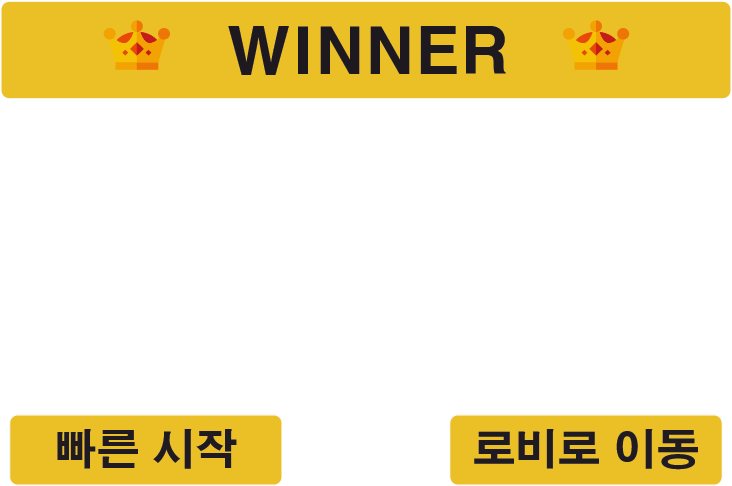
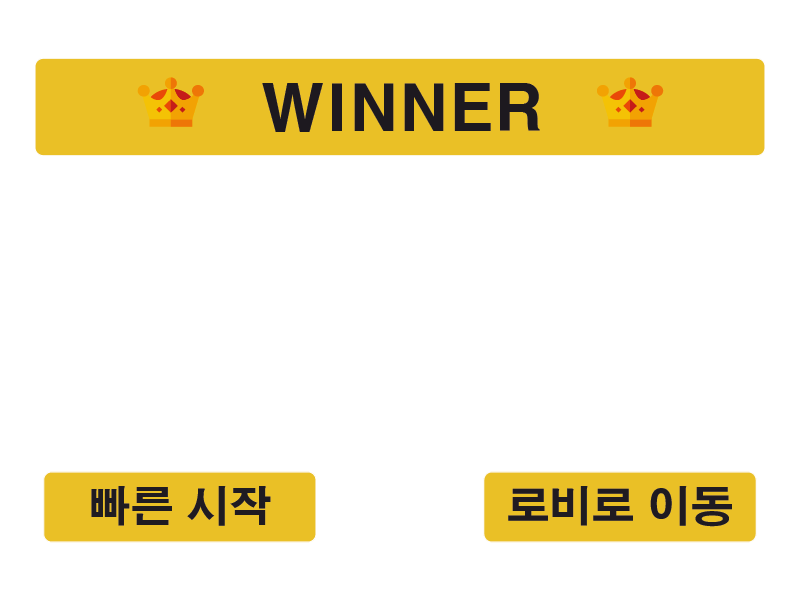
Add end_state and gameover, restart func

diff --git a/play_state.py b/play_state.py
@@ -2,6 +2,7 @@ import game_framework
 import lobby_state
 import game_world
 import ready_state
+import end_state
 
 from player import *
 from stone import Stone
@@ -11,7 +12,11 @@ from timer import Timer
 from ai import AI
 from map import *
 
-gamestart = None
+game_start = None
+game_over = None
+game_restart = None
+lobby_start = None
+
 player = None
 ai = []
 raceTimer = None
@@ -27,8 +32,12 @@ stones = []
 observer = None
 
 def enter():
-    global player, bg, ai, gamestart, raceTimer, startLine, finishLine, transformLine, map, observer, pin, stones, mapX
-    gamestart = False
+    global player, bg, ai, game_start, raceTimer, startLine, finishLine, transformLine, map, observer, pin, stones, mapX, game_over, game_restart, lobby_start
+
+    game_start = False
+    game_over = False
+    game_restart = False
+    lobby_start = False
 
     observer = [[],[],[],[],[]]
     map = Map()
@@ -42,8 +51,8 @@ def enter():
 
     bg = Background()
     startLine = StartLine()
-    transformLine = [TransformLine(x=1500*i) for i in range(1,5+1)]
-    #transformLine = TransformLine()
+    #transformLine = [TransformLine(x=1500*i) for i in range(1,5+1)]
+    transformLine = TransformLine()
     finishLine = FinishLine()
 
     for i in range(4):
@@ -54,28 +63,39 @@ def enter():
     game_world.add_objects(ai, 2)
     game_world.add_object(player, 2)
 
+
+
     game_world.add_object(raceTimer, 1)
     game_world.add_object(map, 1)
     game_world.add_objects(pin, 1)
     game_world.add_object(startLine, 1)
     game_world.add_object(finishLine, 1)
-    game_world.add_objects(transformLine, 1)
-    #game_world.add_object(transformLine, 1)
+    #game_world.add_objects(transformLine, 1)
+    game_world.add_object(transformLine, 1)
 
     game_world.add_object(bg, 0)
+
 
     game_world.add_collision_pairs(player, stones, 'player:stone')
     game_world.add_collision_pairs(ai, stones, 'ai:stone')
     game_world.add_collision_pairs(player, transformLine, 'player:t_line')
     game_world.add_collision_pairs(ai, transformLine, 'ai:t_line')
+    game_world.add_collision_pairs(player, finishLine, 'player:end_line')
+    game_world.add_collision_pairs(ai, finishLine, 'ai:end_line')
+
 
 def exit():
+    global game_start, game_over, game_restart, lobby_start
+    del game_start, game_over, game_restart, lobby_start;
     game_world.clear()
+    game_world.collision_group.clear()
 
 
 def update():
-    if not play_state.gamestart:
+    if not play_state.game_start:
         game_framework.push_state(ready_state)
+    elif play_state.game_over:
+        game_framework.push_state(end_state)
     else:
         for game_object in game_world.all_objects():
             game_object.update()
@@ -88,6 +108,7 @@ def update():
         for i in range(4):
             observer[i] = ai[i].get_pos()
         observer[4] = player.get_pos()
+
 
 def draw():
     clear_canvas()
@@ -112,7 +133,11 @@ def pause():
     pass
 
 def resume():
-    pass
+    if game_restart is True:
+        game_world.clear()
+        game_framework.change_state(play_state)
+    if lobby_start is True:
+        game_framework.change_state(lobby_state)
 
 def collide(a, b):
     left_a, bottom_a, right_a, top_a = a.get_bb()

diff --git a/lines.py b/lines.py
@@ -1,5 +1,7 @@
 from pico2d import *
 import background
+import play_state
+
 
 class StartLine:
 
@@ -10,12 +12,12 @@ class StartLine:
         pass
 
     def draw(self):
-        self.image.draw(25 - background.mapX, 267)
+        self.image.draw(25, 267)
 
 
 class TransformLine:
 
-    def __init__(self, x=200):
+    def __init__(self, x=400):
         self.image = load_image('res/transform_line.png')
         self.x = x
         self.y = 267
@@ -32,6 +34,10 @@ class TransformLine:
         return self.x - 25, self.y - 212, self.x+25, self.y+212
 
     def handle_collision(self, other, group):
+        if group == 'ai:t_line':
+            if not self.check_in_t_list(other):
+                self.t_list.append(other)
+                other.set_random_character()
         if group == 'player:t_line':
             if not self.check_in_t_list(other):
                 self.t_list.append(other)
@@ -41,13 +47,29 @@ class TransformLine:
     def check_in_t_list(self, player):
         return player in self.t_list
 
+
+
+
 class FinishLine:
 
     def __init__(self):
         self.image = load_image('res/finish_line.png')
+        self.x = 1000
+        self.y = 267
 
     def update(self):
         pass
 
     def draw(self):
-        self.image.draw(9975 - background.mapX, 267)
+        self.image.draw(self.x, 267)
+
+    def get_bb(self):
+        return self.x - 25, self.y - 212, self.x+25, self.y+212
+
+    def handle_collision(self, other, group):
+        if group == 'player:end_line':
+            print(group, "collision")
+            play_state.game_over = True
+        if group == 'ai:end_line':
+            print(other.name, "collision")
+            play_state.game_over = True

diff --git a/game_framework.py b/game_framework.py
@@ -49,7 +49,7 @@ def get_prev_state():
 
 def change_state(state):
     global stack
-    if (len(stack) > 0):
+    if len(stack) > 0:
         # execute the current state's exit function
         stack[-1].exit()
         # remove the current state
@@ -60,7 +60,7 @@ def change_state(state):
 
 def push_state(state):
     global stack
-    if (len(stack) > 0):
+    if len(stack) > 0:
         stack[-1].pause()
     stack.append(state)
     state.enter()
@@ -68,14 +68,14 @@ def push_state(state):
 
 def pop_state():
     global stack
-    if (len(stack) > 0):
+    if len(stack) > 0:
         # execute the current state's exit function
         stack[-1].exit()
         # remove the current state
         stack.pop()
 
     # execute resume function of the previous state
-    if (len(stack) > 0):
+    if len(stack) > 0:
         stack[-1].resume()
 
 
@@ -117,7 +117,7 @@ def run(start_state):
         cur_time += frame_time
 
     # repeatedly delete the top of the stack
-    while (len(stack) > 0):
+    while len(stack) > 0:
         stack[-1].exit()
         stack.pop()
 

diff --git a/end_state.py b/end_state.py
@@ -1,0 +1,49 @@
+from pico2d import *
+
+import game_framework
+import play_state
+import lobby_state
+import game_world
+
+image = None
+
+def enter():
+    global image
+    image = load_image('res/finish.png')
+
+
+def exit():
+    global image
+    del image
+
+def handle_events():
+    events = get_events()
+    for event in events:
+        if event.type == SDL_QUIT:
+            game_framework.quit()
+        elif event.type == SDL_MOUSEBUTTONUP:
+            if 470 <= event.y <= 545:
+                if 45 <= event.x <= 315:
+                    play_state.game_restart = True
+                    game_framework.pop_state()
+                elif 485 <= event.x <=755:
+                    play_state.lobby_start = True
+                    game_framework.pop_state()
+
+def draw():
+    clear_canvas()
+    play_state.draw_world()
+    image.draw(400, 300)
+    update_canvas()
+
+
+def update():
+    pass
+
+
+def pause():
+    pass
+
+
+def resume():
+    pass

diff --git a/player.py b/player.py
@@ -82,7 +82,7 @@ class RUN:
         # x 좌표 변경, 달리기
         self.frame = (self.frame + self.FRAMES_PER_ACTION * self.ACTION_PER_TIME * game_framework.frame_time) % self.FRAMES_PER_ACTION
 
-        background.mapX += self.dirX * self.speed * game_framework.frame_time
+        #background.mapX += self.dirX * self.speed * game_framework.frame_time
         self.x += self.dirX * self.speed * game_framework.frame_time
         self.y += self.dirY * self.speed * game_framework.frame_time
 
@@ -164,7 +164,7 @@ class Player:
 
     def draw(self):
         self.cur_state.draw(self, )
-        draw_rectangle(*self.get_bb())
+        #draw_rectangle(*self.get_bb())
 
     def handle_events(self, event):
         if (event.type, event.key) in key_event_table:

diff --git a/ai.py b/ai.py
@@ -101,6 +101,7 @@ class AI:
 
     def draw(self):
         self.cur_state.draw(self, )
+        draw_rectangle(*self.get_bb())
 
     def set_character(self):
         self.character = character_data.characters[self.name]
@@ -120,9 +121,7 @@ class AI:
     
     def handle_collision(self, other, group):
         if group == 'ai:stone':
-            print("collide")
-        elif group == 'player:t_line':
-            self.set_random_character()
+            pass
     
     def get_pos(self):
         return self.x, self.y

diff --git a/stone.py b/stone.py
@@ -25,7 +25,7 @@ class Stone:
 
     def draw(self):
         self.image.clip_draw(int(self.frame) * stone['width'], stone['bottom'], stone['width'], stone['height'], self.x, self.y, 32, 46)
-        draw_rectangle(*self.get_bb())
+        #draw_rectangle(*self.get_bb())
 
 
     def update(self):

diff --git a/ready_state.py b/ready_state.py
@@ -28,7 +28,7 @@ def update():
     elif game_framework.cur_time < enter_time + 3:
         countdown = 1
     elif game_framework.cur_time >= enter_time + 3:
-        play_state.gamestart = True
+        play_state.game_start = True
         game_framework.pop_state()
 
 

diff --git a/mygame.py b/mygame.py
@@ -5,6 +5,6 @@ import play_state
 
 start_state = logo_state
 
-pico2d.open_canvas()
-game_framework.run(play_state)
+pico2d.open_canvas(800, 600)
+game_framework.run(start_state)
 pico2d.close_canvas()

diff --git a/game_world.py b/game_world.py
@@ -27,6 +27,7 @@ def all_objects():
 
 
 def clear():
+    global collision_group
     for o in all_objects():
         del o
     for layer in objects:

diff --git a/background.py b/background.py
@@ -1,7 +1,5 @@
 from pico2d import *
 
-mapX = 0
-
 class Background:
     def __init__(self):
         self.image = load_image('res/background.png')
